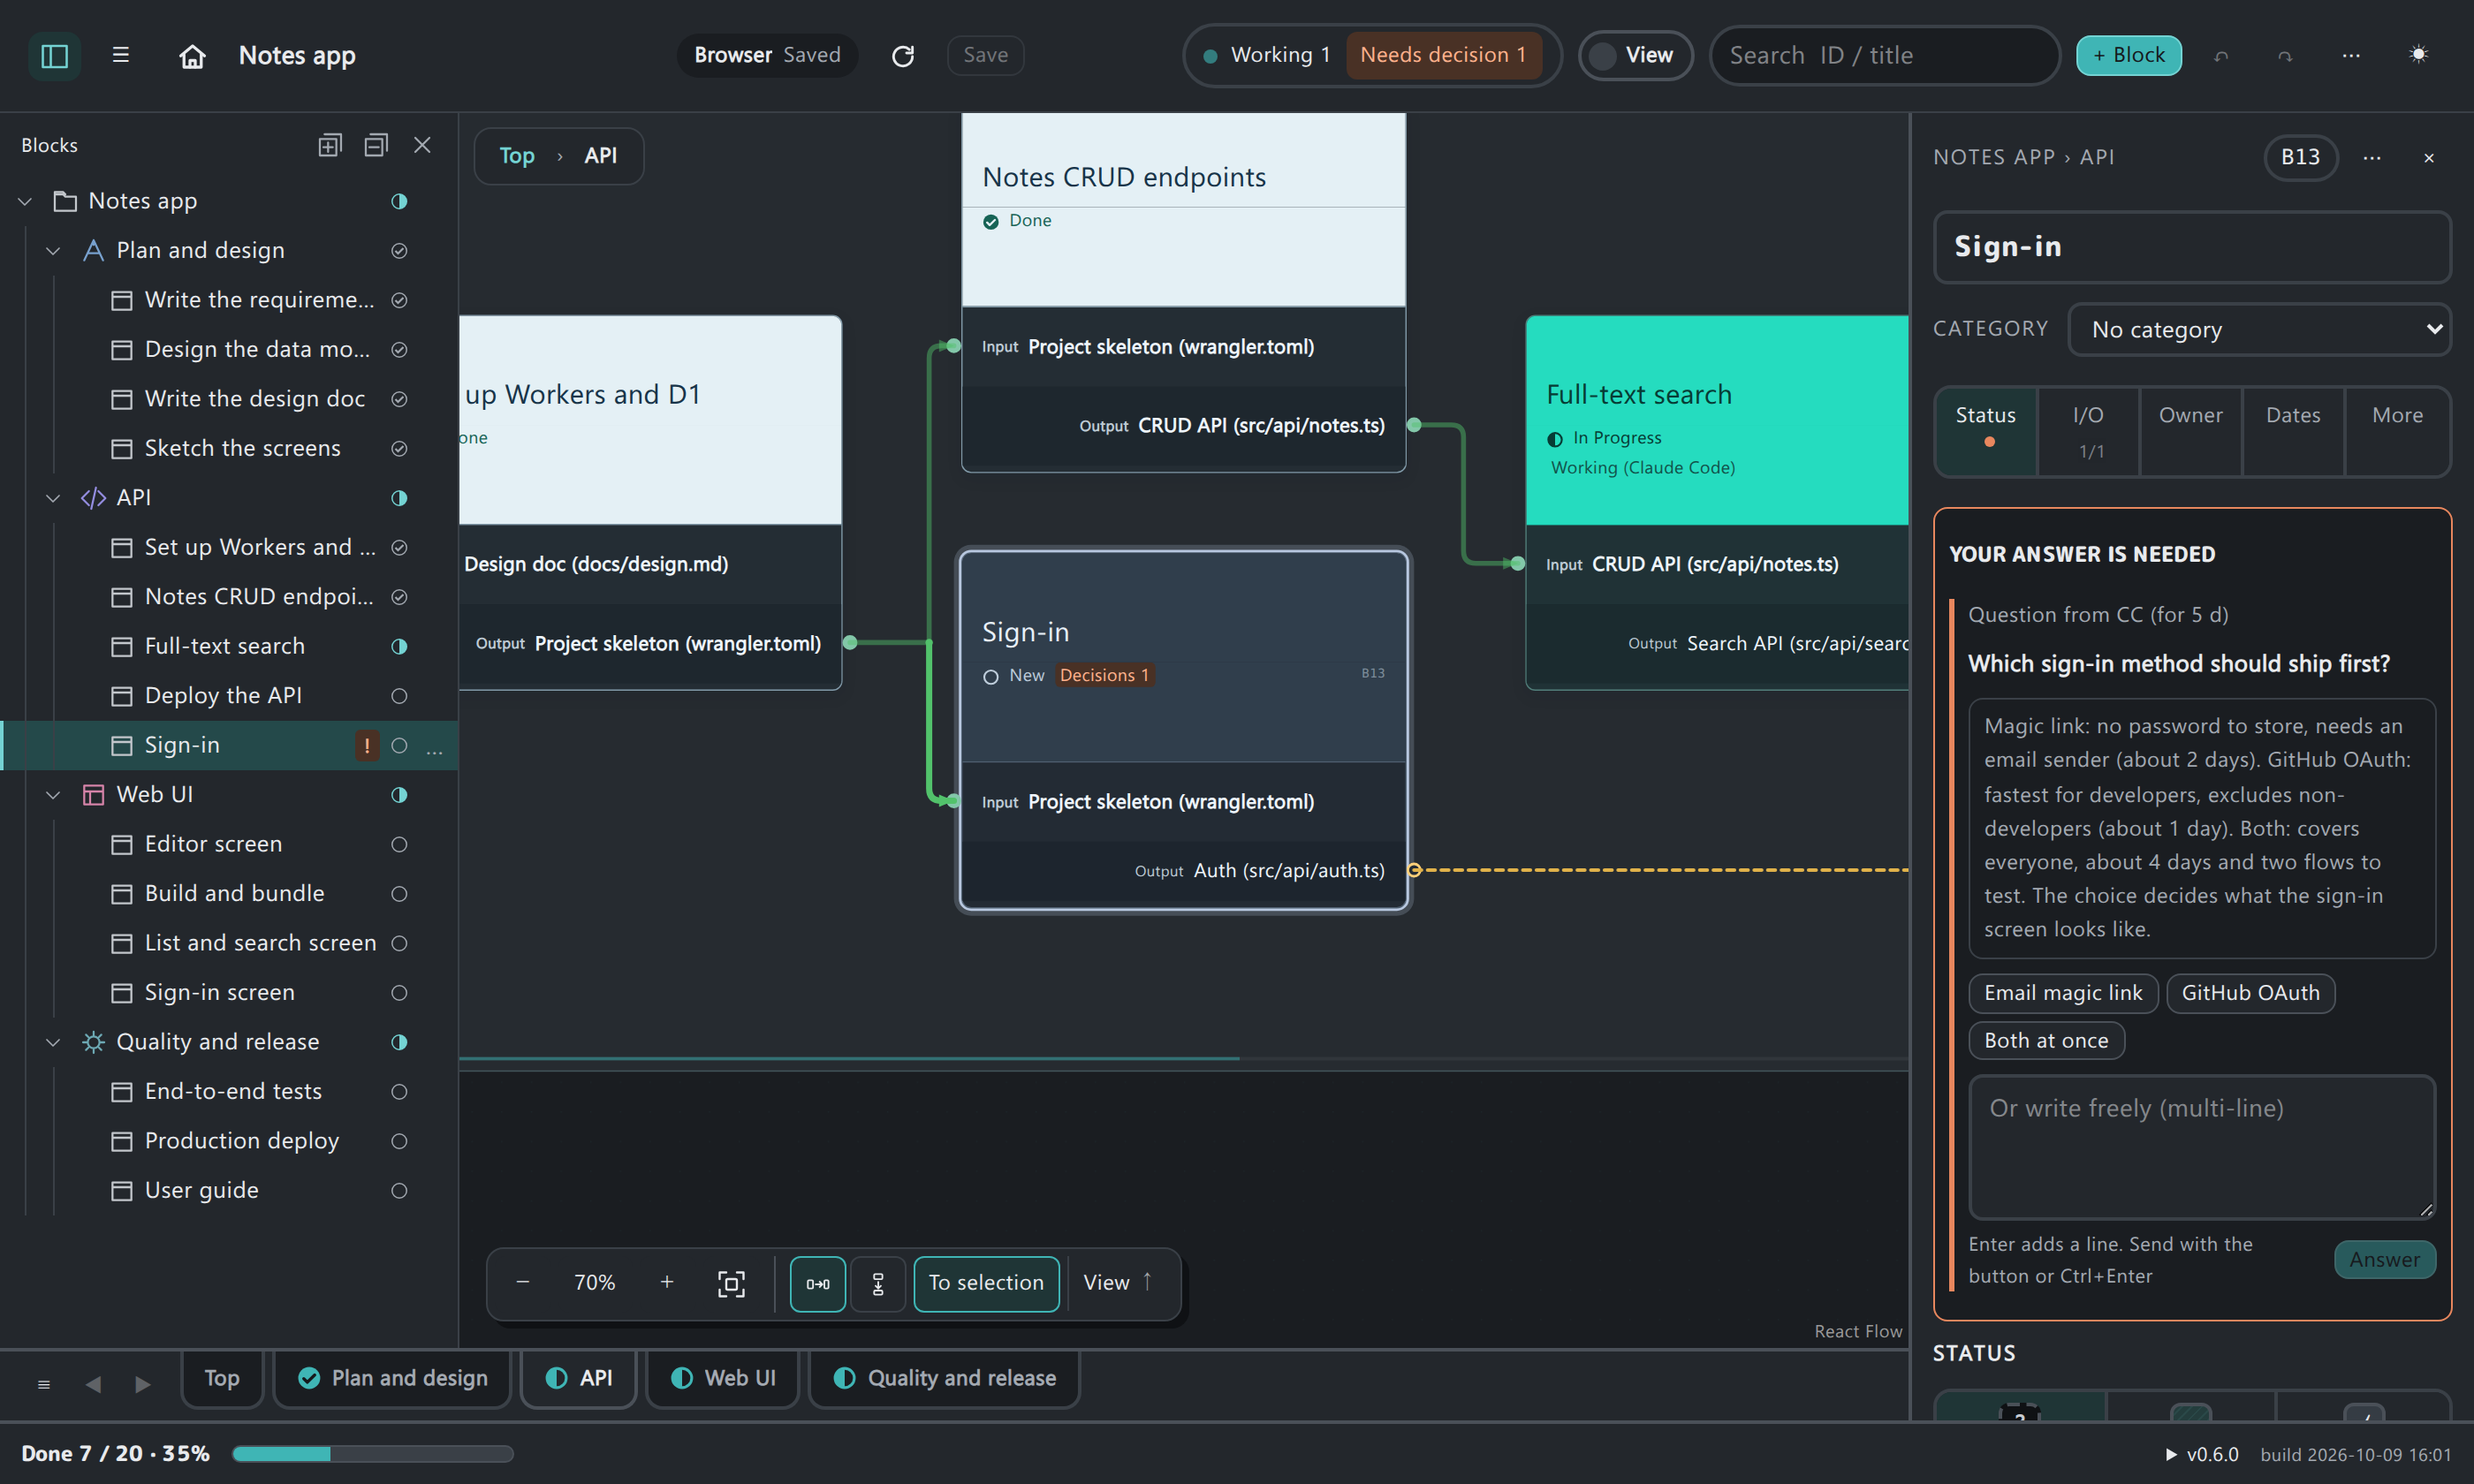
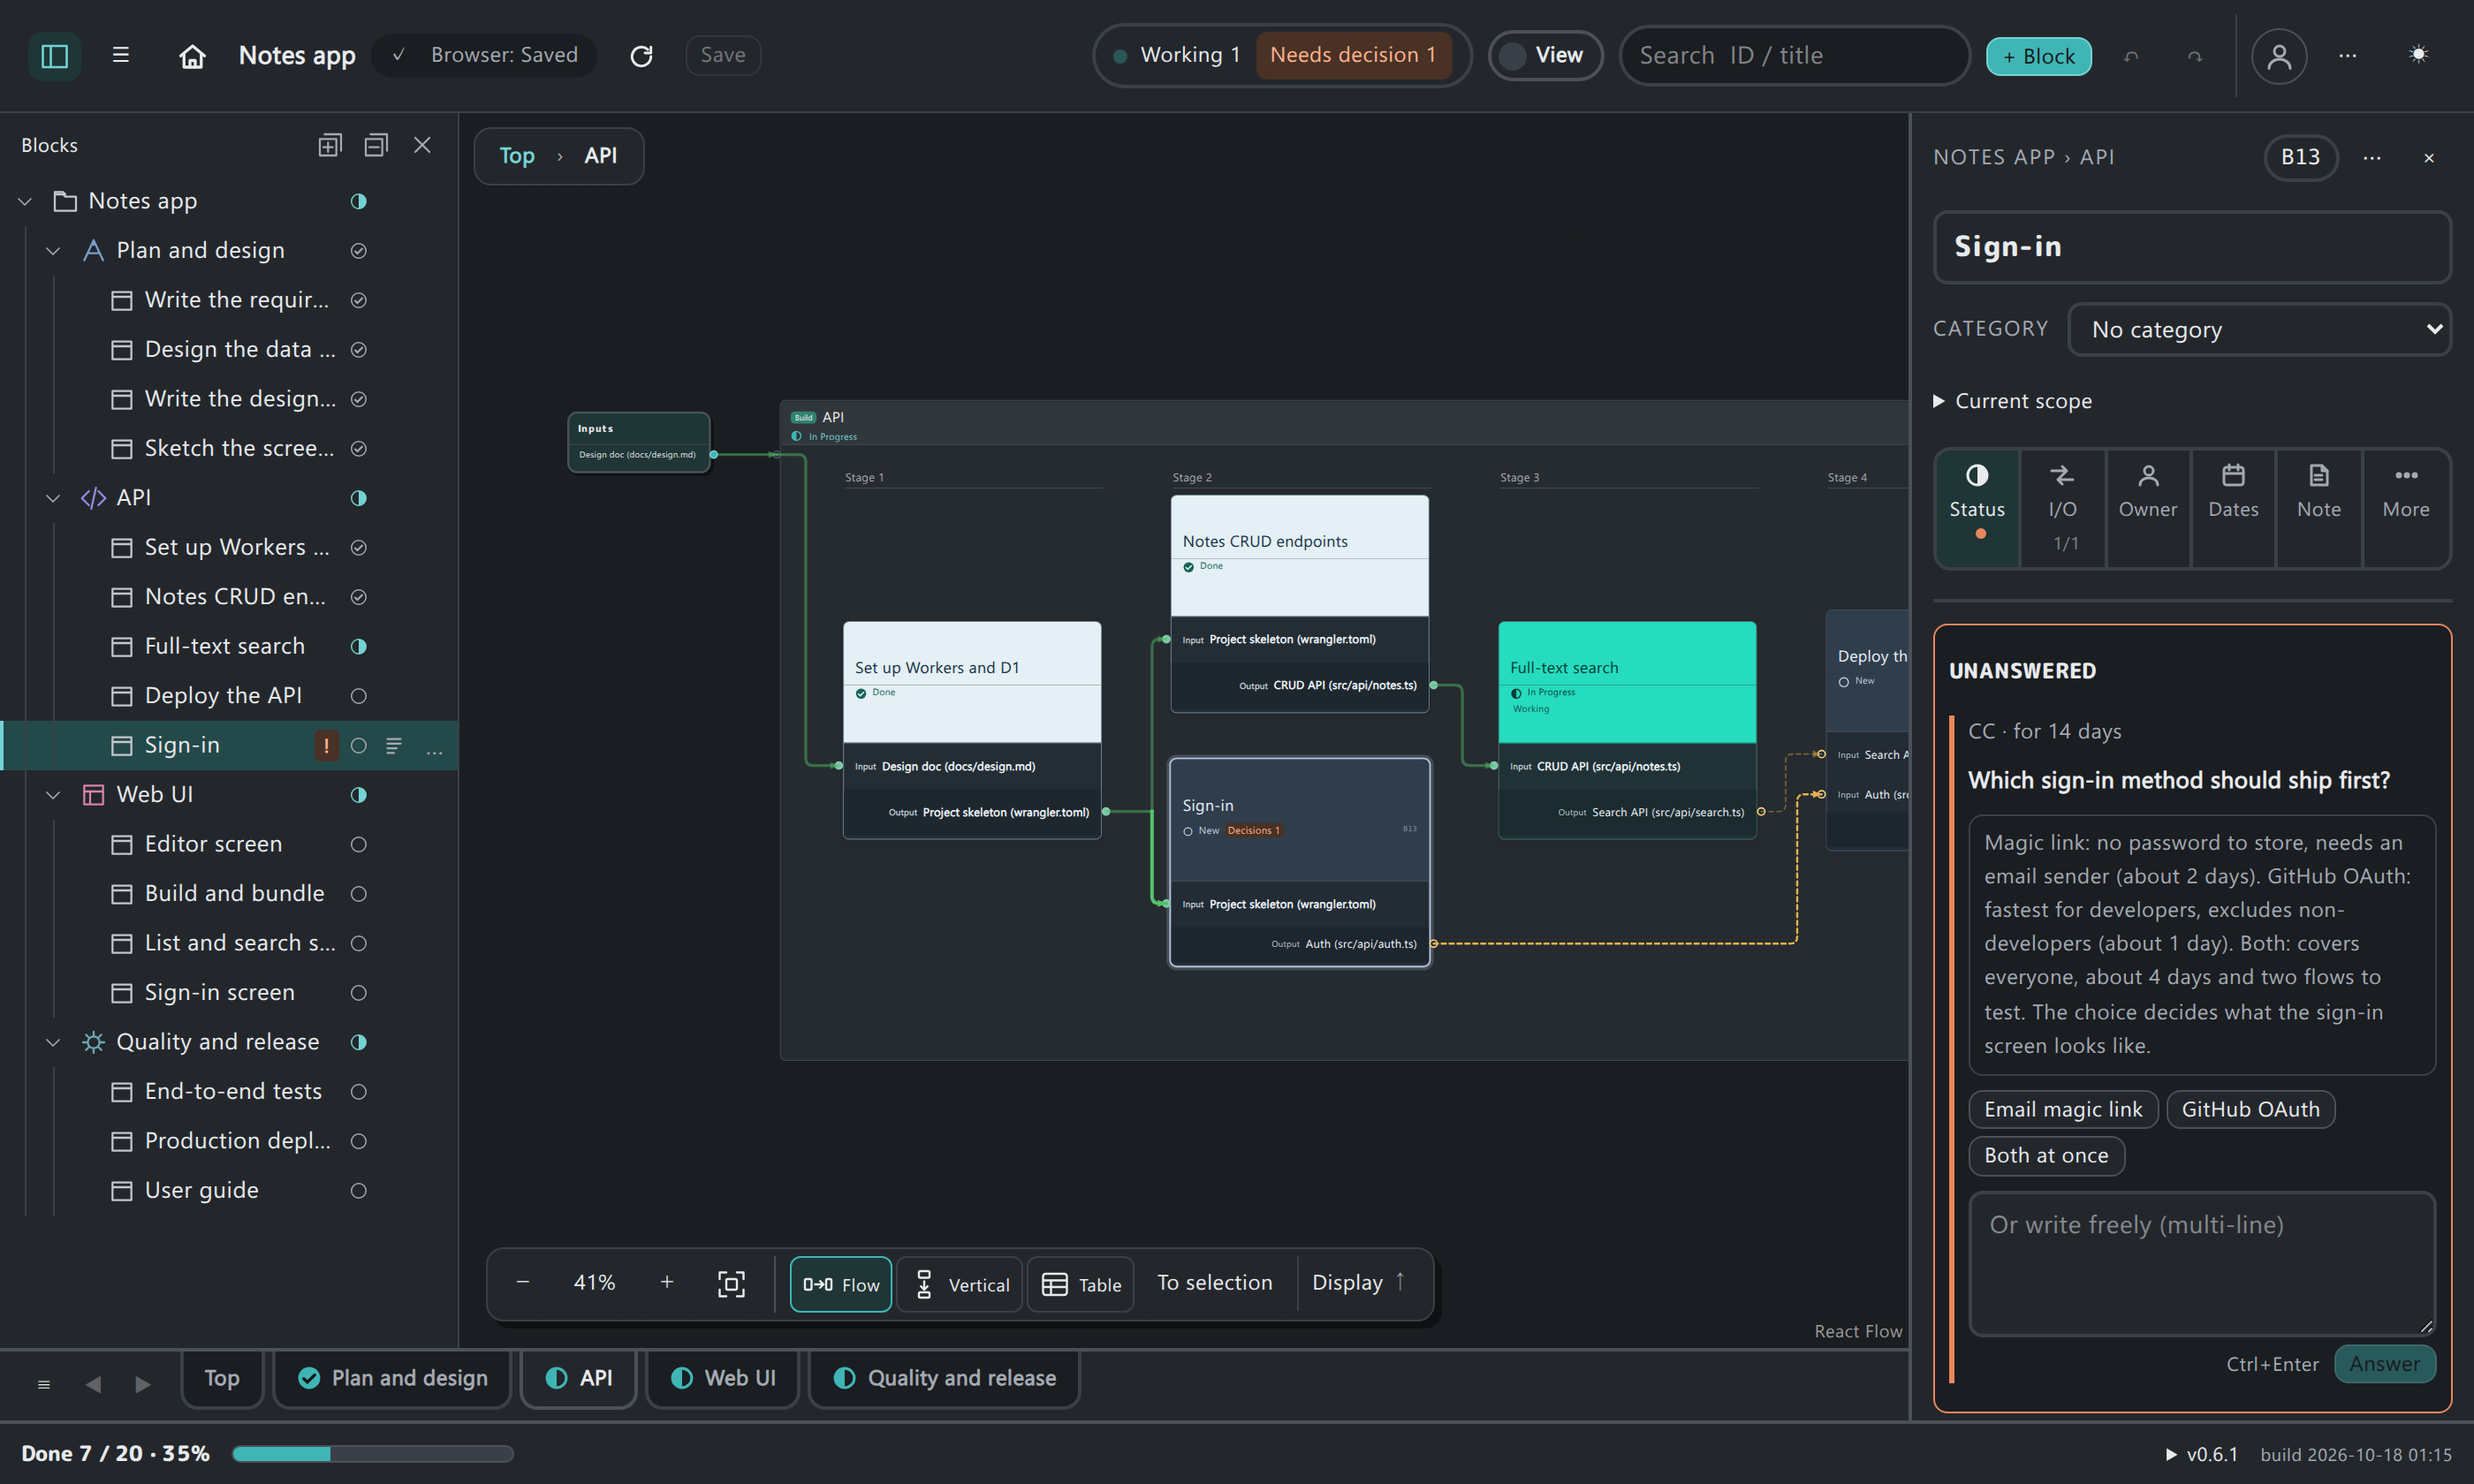
拡張の説明ページの画像を 0.6.1 の画面で撮り直す (B166)。サンプル計画に予定成果物と完了条件を入れる
- vscode/images の overview / tab / decision / vertical を今のビルド (同期の札、見出しの帯、Flow / Vertical / Table、Display) で撮影し直す。levels.png (概念図) はそのまま
- examples/notes-app: 未完了の箱に expect と acceptance を入れ、要具体化の札が出ないようにする (lint 0 件)
- vscode/README: 作業中の箱の説明を今の表示 (Working、NOW、見出しの帯) に合わせる

diff --git a/vscode/README.md b/vscode/README.md
@@ -16,7 +16,7 @@ In View mode the boxes are laid out in dependency order as numbered stages, left
 
 ## What you see
 
-- **Where the agent is working**: the box it is on carries a "Working" tag; the top bar counts what is in progress and what needs a decision.
+- **Where the agent is working**: the box it is on says "Working" (and the NOW marker shows the box being worked on right now); the top bar counts what is in progress and what needs a decision, and the heading strip names the final deliverable and the first pending decision.
 - **What is done and what is not**: the card header shows the state: teal for in progress, light for done, slate for new. Green wires carry a finished deliverable, amber wires (and the "Waiting" label on an input) are still waiting.
 - **The block tree**: the sidebar button opens the whole hierarchy. Jump to a box, or add, rename, move and delete boxes right from the tree.
 
